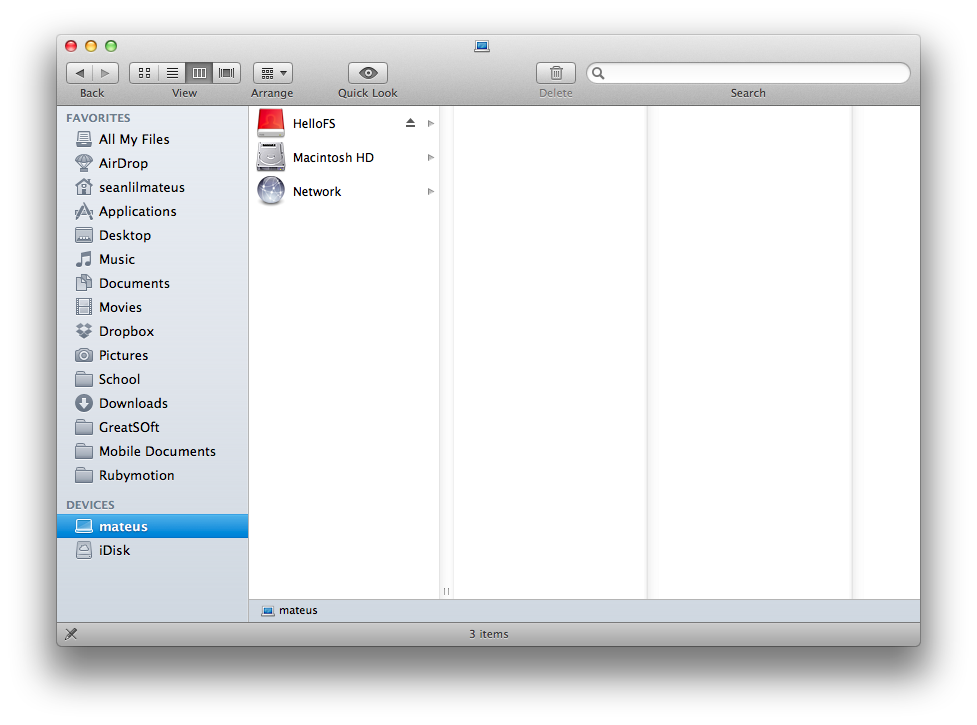
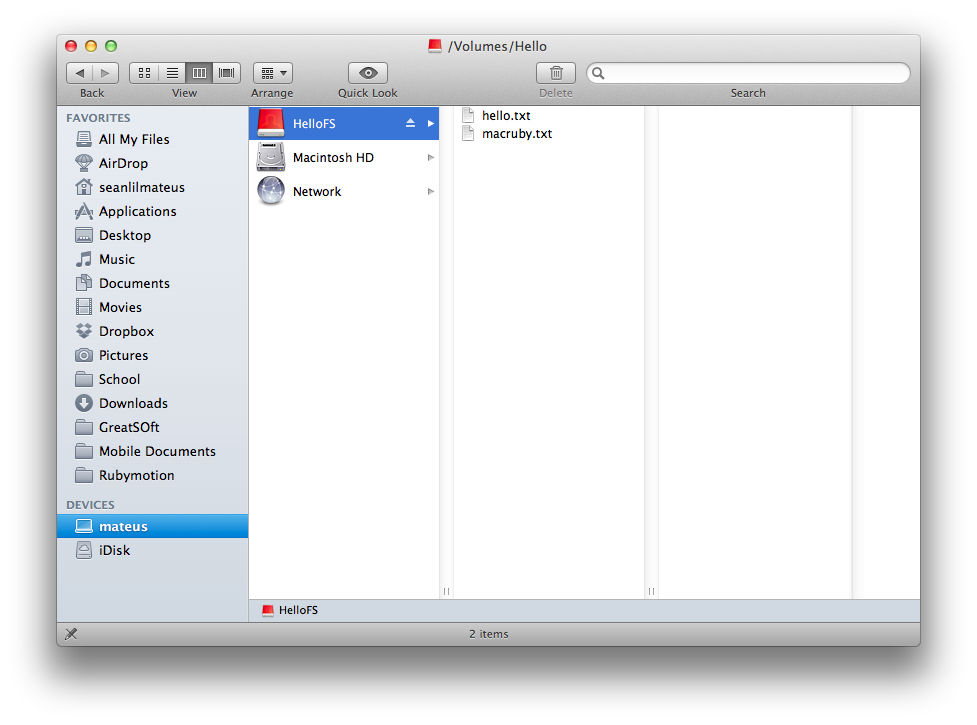
better screen

Changed region(s): [[0.2456, 0.1214, 0.5527, 0.2124], [0.4299, 0.0607, 0.5527, 0.091], [0.2456, 0.8193, 0.3378, 0.8497]]

diff --git a/README.md b/README.md
@@ -3,7 +3,7 @@
 this is an example on how to use MacFuse in MacRuby,
 to play with it, you will need to install the MacFuse Framework, or even better the MacFuse replacement [OSXFUSE](http://osxfuse.github.com/)
 
-![screenshot](https://github.com/seanlilmateus/HelloFS/blob/master/helloFS?raw=true "Screenshot")
+![screenshot](https://github.com/seanlilmateus/HelloFS/blob/master/helloFS.PNG?raw=true "Screenshot")
 
 
 ##Licensing:
